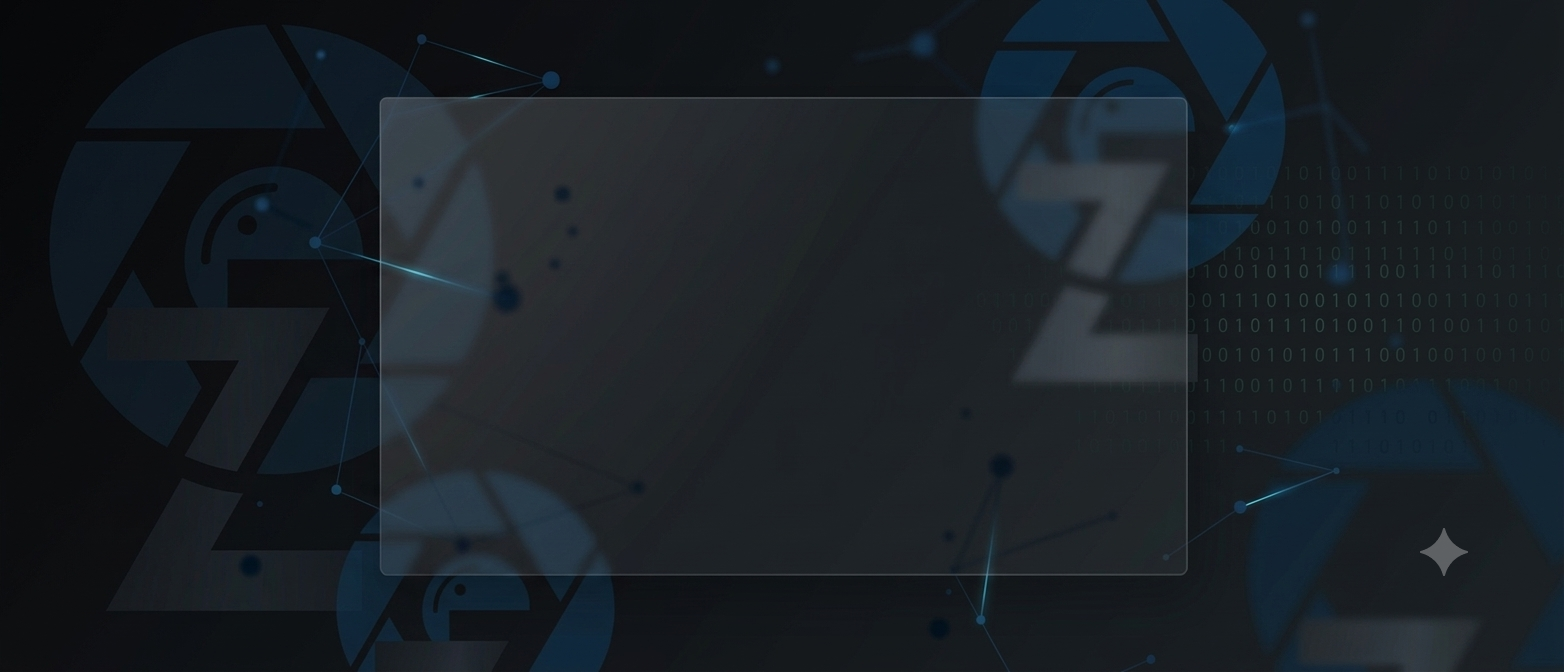
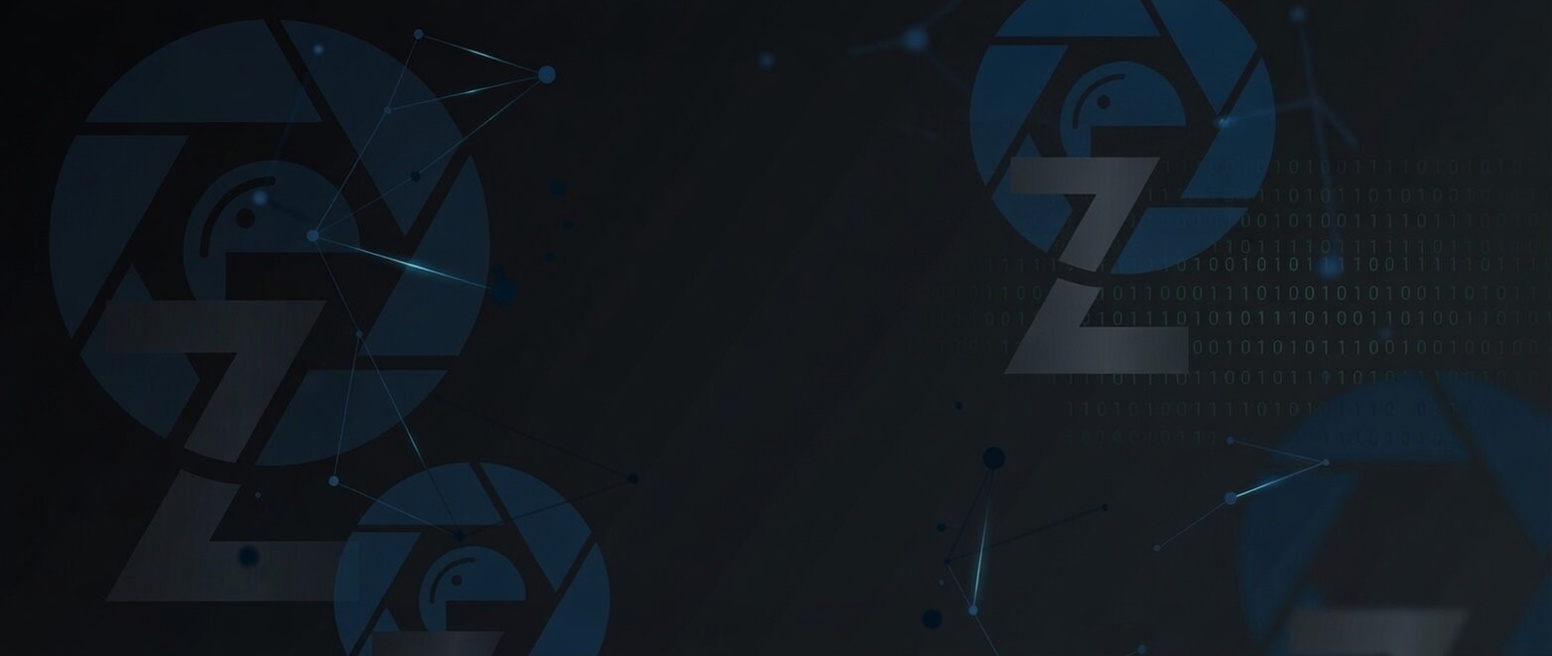
/feat criando pagina de login administrativo, mudado imagens de background.

diff --git a/app/login/page.tsx b/app/login/page.tsx
@@ -1,0 +1,85 @@
+'use client'
+
+import { useActionState, useEffect } from 'react'
+import { useRouter } from 'next/navigation'
+import { login } from '@/actions/login'
+import { Input } from '@/components/ui/Input'
+import { Button } from '@/components/ui/Button'
+import { ThemeToggle } from '@/components/ui/ThemeToggle'
+
+export default function LoginPage() {
+  const router = useRouter()
+
+  const loginAction = async (_prevState: unknown, formData: FormData) => {
+    return login(formData)
+  }
+
+  const [state, formAction, isPending] = useActionState(loginAction, null)
+
+  useEffect(() => {
+    if (state?.sucesso) {
+      router.push('/admin')
+    }
+  }, [state, router])
+
+  return (
+    <div
+      className="min-h-screen bg-cover bg-center bg-fixed transition-colors duration-300
+        bg-[url('/images/zscan-light-wallpaper.png')]
+        dark:bg-[url('/images/zscan-dark-wallpaper.png')]"
+    >
+      <ThemeToggle />
+
+      <div className="flex min-h-screen items-center justify-center p-4">
+        <div className="w-full max-w-md rounded-2xl border border-gray-200 dark:border-gray-800 bg-white/80 dark:bg-gray-900/80 backdrop-blur-sm p-8 shadow-lg">
+          <h1 className="mb-6 text-center text-2xl font-bold text-gray-900 dark:text-gray-100">Login Admin</h1>
+
+          {state?.erro && (
+            <div className="mb-4 rounded-lg bg-red-50 dark:bg-red-900/50 p-4 text-sm text-red-600 dark:text-red-400">
+              {state.erro}
+            </div>
+          )}
+
+          <form action={formAction} className="space-y-4">
+            <Input
+              label="E-mail"
+              type="email"
+              name="email"
+              required
+              placeholder="[email redacted]"
+              disabled={isPending}
+            />
+
+            <Input
+              label="Senha"
+              type="password"
+              name="senha"
+              required
+              placeholder="••••••••"
+              disabled={isPending}
+            />
+
+            <Button
+              type="submit"
+              className="w-full justify-center"
+              disabled={isPending}
+            >
+              {isPending ? 'Entrando...' : 'Entrar'}
+            </Button>
+
+            <div className="text-center">
+              <Button
+                type="button"
+                variante="secundario"
+                className="w-full justify-center"
+                onClick={() => window.location.href = '/formulario'}
+              >
+                ← Voltar ao formulário
+              </Button>
+            </div>
+          </form>
+        </div>
+      </div>
+    </div>
+  )
+}

diff --git a/app/admin/page.tsx b/app/admin/page.tsx
@@ -1,0 +1,26 @@
+'use client'
+
+import { ThemeToggle } from '@/components/ui/ThemeToggle'
+
+export default function AdminPage() {
+  return (
+    <div
+      className="min-h-screen bg-cover bg-center bg-fixed transition-colors duration-300
+        bg-[url('/images/zscan-light-wallpaper.png')]
+        dark:bg-[url('/images/zscan-dark-wallpaper.png')]"
+    >
+      <ThemeToggle />
+
+      <div className="max-w-7xl mx-auto px-4 py-8 sm:px-6 lg:px-8">
+        <div className="bg-white/80 dark:bg-gray-900/80 backdrop-blur-sm rounded-2xl shadow-sm border border-gray-200 dark:border-gray-800 p-6 sm:p-8">
+          <h1 className="text-2xl font-bold text-gray-900 dark:text-gray-100">
+            Painel Administrativo
+          </h1>
+          <p className="text-gray-500 dark:text-gray-400 mt-2">
+            Bem-vindo ao painel de administração.
+          </p>
+        </div>
+      </div>
+    </div>
+  )
+}

diff --git a/app/formulario/page.tsx b/app/formulario/page.tsx
@@ -38,6 +38,18 @@ export default function FormularioPage() {
         bg-[url('/images/zscan-light-wallpaper.png')]
         dark:bg-[url('/images/zscan-dark-wallpaper.png')]"
     >
+      <a
+        href="/login"
+        className="fixed top-20 right-4 z-50 flex items-center gap-2 px-4 py-2 rounded-full
+          bg-white/80 dark:bg-gray-800/80 backdrop-blur-sm
+          border border-gray-200 dark:border-gray-700
+          shadow-lg hover:shadow-xl
+          text-sm font-medium text-gray-700 dark:text-gray-300
+          hover:bg-gray-100 dark:hover:bg-gray-700
+          transition-all duration-200"
+      >
+        Admin
+      </a>
       <ThemeToggle />
 
       <div className="max-w-3xl mx-auto px-4 py-8 sm:px-6 lg:px-8">